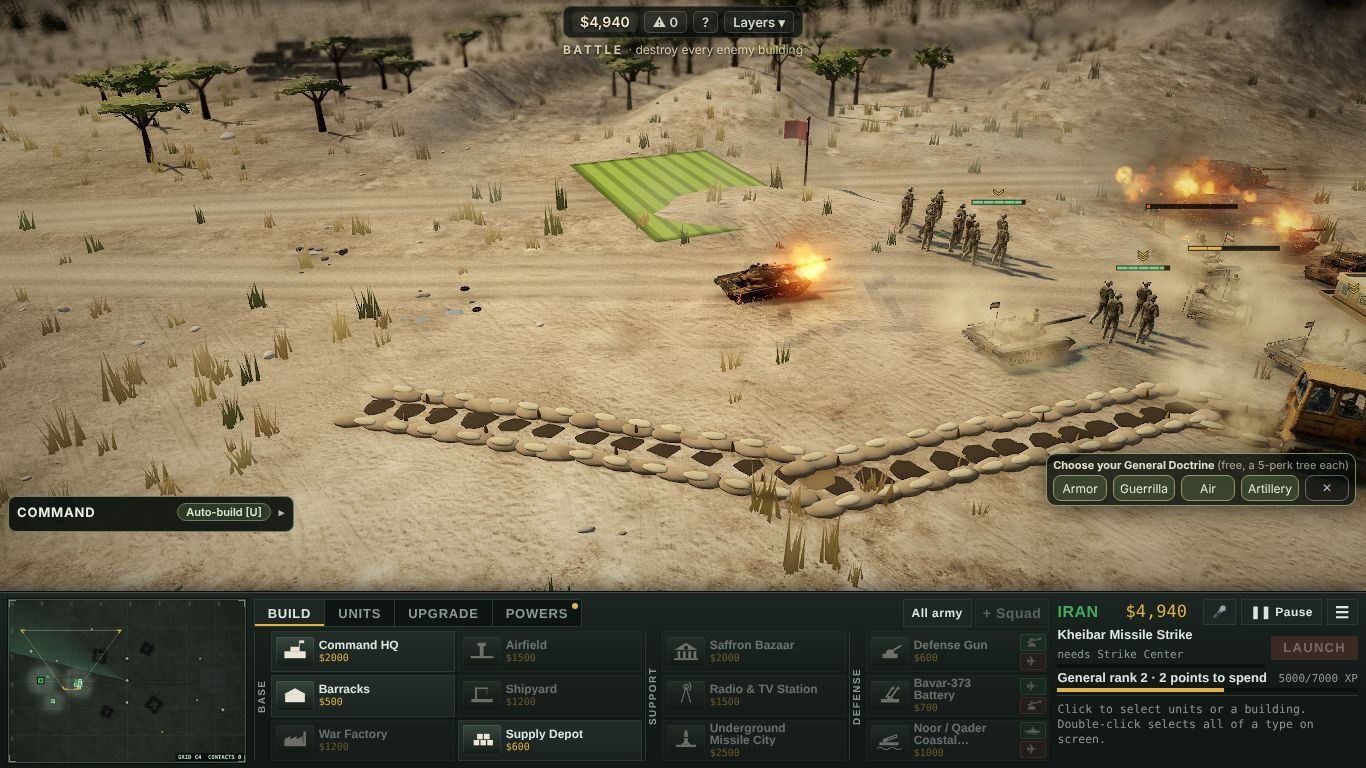
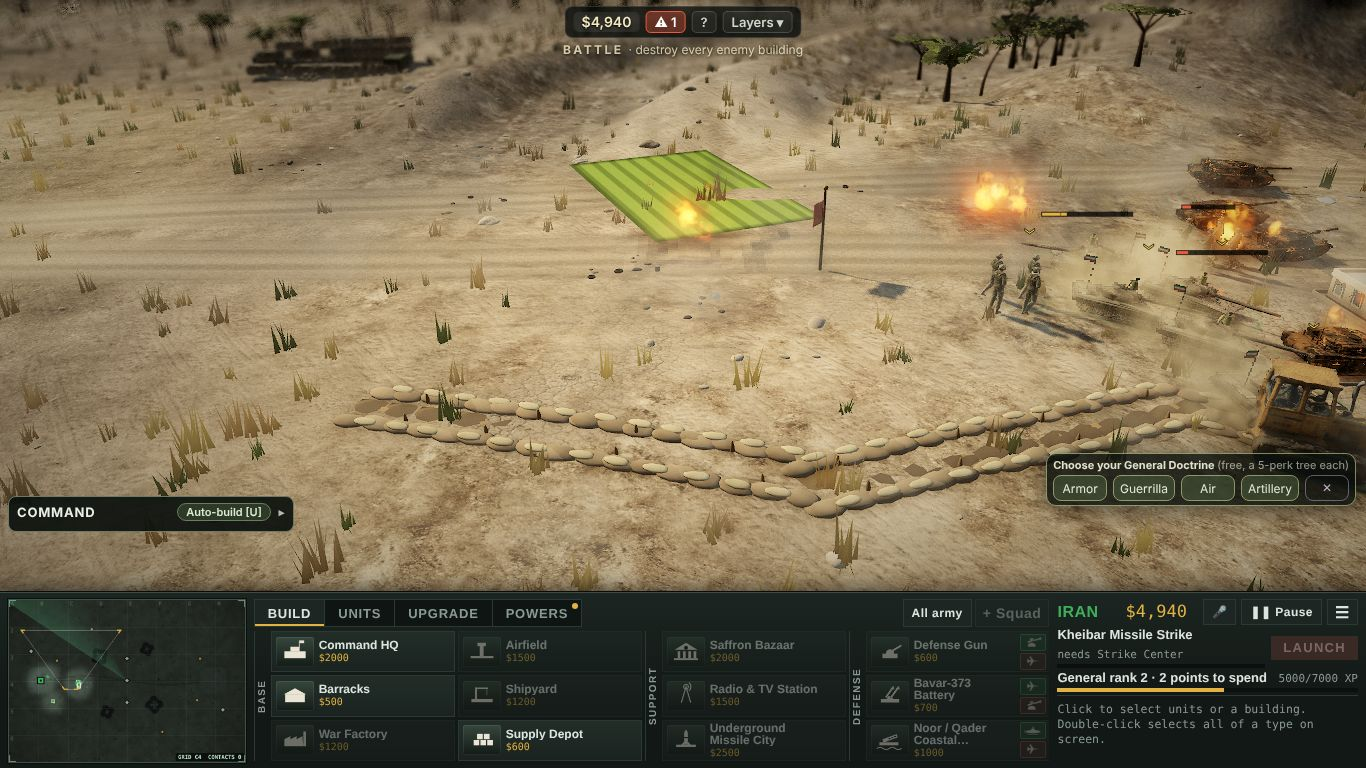
groundreal: trench floors as one dug channel, proof pictures, handoff
Claude-Session: https://claude.ai/code/session_01GRiS9ofko5qbHUfbq9uSsj

diff --git a/orch/HANDOFF-groundreal.md b/orch/HANDOFF-groundreal.md
@@ -1,0 +1,50 @@
+# HANDOFF — groundreal (branch `orch/groundreal`)
+
+Abdullah 2026-11-13 20:05 Chicago, photo of a desert Battle fight on his Windows laptop: "This ground texture is too cartoony".
+
+## Done (view only; Conquest, Battle, Missions, Test range; nothing in `src/13*`)
+- **Real photo ground** (`src/04-gfx.js`): a second ground atlas `TERR_DET2` (CC0 Poly Haven: aerial sand, dry cracked earth,
+  rocky soil, packed dirt; 512 px layers; albedo + normal/roughness) blended on open ground in big natural patches
+  (noise at 610 / 233 units with broken edges, extra mottling at 63 units, two-scale rotated samples so the tiling does not
+  show). Desert maps get sand + cracked earth over rocky soil; green maps use it only where the ground is not grass;
+  snow is unchanged. Worn packed dirt around every base and along roads. Mipmaps + anisotropic filtering on all of it.
+- **Natural colors**: dry ground keeps 58% of its painted color (`TERR_SAT` in `src/02-map.js`) and the terrain shader
+  pulls open ground toward a pale beige / gray-brown range (desert 52% color, +15% light; green 90%; mud 80%; snow none).
+  The theater grade in `src/10-post.js` is untouched, so it works with all three looks (`?look=a|b|c`).
+  Measured on the same desert spot: median ground saturation 0.46 → 0.37 after the warm grade.
+- **Stair-stepped dark lines gone** — there were four sources:
+  1. tank track prints: hard 16x32 hatched texture, flat quads cutting into slopes → soft 32x64 print with feathered sides
+     and fading ends (overlapping prints join into one even rut), tilted to the ground under it (`src/05-fx3d.js`);
+  2. road mask: the 16-unit sim grid (points snapped to cells) → a render-only mask drawn from the painted road curves and
+     built roads at 4 units per texel, soft distance band, mipmapped (`roadTex` / `rdStamp`, `G.roadDraw` from 02-map);
+  3. hairline crack strokes on the painted ground (~25,000 1-px lines, jagged when magnified) → off (`TERR_CRACKS=false`,
+     same random numbers drawn so the map/trees are unchanged); the cracked-earth photo replaces them;
+  4. trench floors: three separate near-black blocks per piece → overlapping dug-earth channel (`src/05b-tactfx.js`).
+  Road edge ruts softer and wider; painted grain speckle weaker.
+- Guard: `orch/decisions.mjs` (GROUND LOOK block): TERR_DET2 used by the terrain shader, detail textures mipmapped, road
+  mask from curves at 4 units/texel and mipmapped, crack strokes off, old hard track texture gone.
+- Proof script: `node orch/groundshots.mjs before|after` (SHOTS=desert,close,fort,mountain,green,snow; MTN=<map>).
+
+## Gate
+See the result line at the end of this file (one `orch/cigate.sh` run).
+
+## Pictures (orch/concepts/groundreal/, before = main a3b627b, after = this branch)
+- `before-desert.jpg` / `after-desert.jpg` — Battle, Tar Basin (desert), firefight at normal play zoom (his photo's view)
+- `before-close.jpg` / `after-close.jpg` — same, close zoom
+- `before-fort.jpg` / `after-fort.jpg` — a fortification (trench) line close-up
+- `before-mountain.jpg` / `after-mountain.jpg` — Conquest, Hajar Mountains (desert mountains)
+- `before-green.jpg` / `after-green.jpg` — Battle, Four Mills (green)
+(The striped green/yellow rectangles in some pictures are crop fields / supply fields, not part of this change.)
+
+## Credits (menu credits line `tdCred`)
+Aerial Sand, Dry Ground 01, Aerial Ground Rock and Dry Ground Rocks by Rob Tuytel, via Poly Haven (polyhaven.com, CC0).
+
+## Load size
++~600 KB of WebP (albedo 363 KB + normal/roughness 234 KB) inlined as base64: index.html +800 KB raw, +607 KB gzipped
+(target was under 3 MB). No new draw calls; the ground shader samples the new layers only where they show and skips the
+old soil samples where the photo ground covers it.
+
+## Try this (2 minutes on PC)
+https://abdullahhaidar5-ux.github.io/ww3/ → Single player → Battle → Tar Basin, start, drive 3 tanks across the open
+ground in front of your base and zoom in: the ground should read as pale real desert (sand, cracked earth, small stones)
+with soft tank ruts, and no dark stair-stepped lines.
